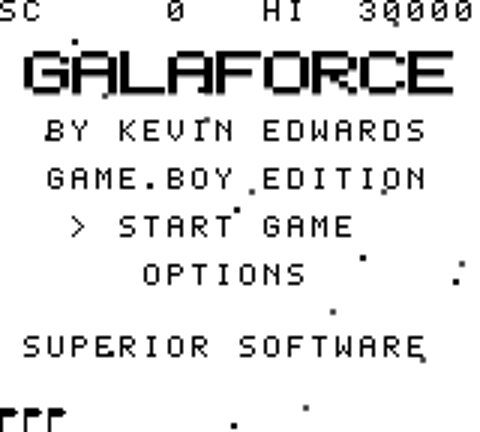
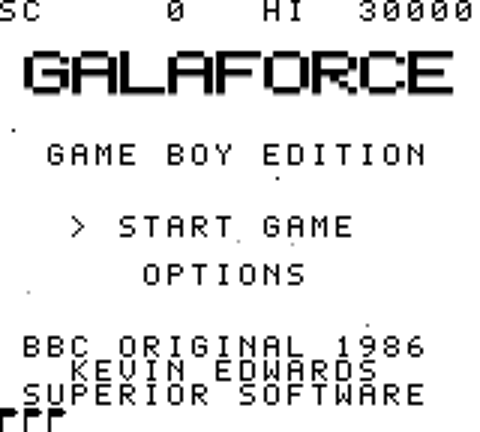
Title: in-game scrolling stars via LYC splits, GAME BOY EDITION headline, small original-credits

diff --git a/docs/PROGRESS.md b/docs/PROGRESS.md
@@ -24,7 +24,7 @@
 - Fixed: alien vertical speed was half of the original; collision now uses the drawn Y (no deaths without contact).
 - Stage 12 done: options menu (lives 1-5, black/white background), persisted in SRAM `$A010`; `tools/optionstest.py` passes. Makefile now rebuilds gfx when `font5x7.py` changes.
 - White background is now the default (a saved setting still overrides it).
-- Title redesigned after the BBC original: HUD line (SC/HI) on top, wide red-style GALAFORCE, BY KEVIN EDWARDS, SUPERIOR SOFTWARE, flags bottom-left, static starfield.
-- Title stars are falling sprites (behind the logo and text via BG priority, two speeds and palettes), like the in-game starfield; the logo also gets an occasional grey shine sweep (every ~8.5 s).
+- Title redesigned after the BBC original: HUD line (SC/HI) on top, wide red-style GALAFORCE, GAME BOY EDITION headline, small credit (BBC ORIGINAL 1986 / KEVIN EDWARDS / SUPERIOR SOFTWARE) for the original author and publisher, flags bottom-left.
+- Title stars use the in-game method: the $9C00 star map scrolled via LYC splits between the text rows (TitleStat, waits for HBlank before switching); the logo also gets an occasional grey shine sweep (every ~8.5 s).
 - Enemy bombs (all waves; extra random bombs from wave 4) redrawn as a fat 6x12 solid drop in the max-contrast palette index, visible in both background modes.
 - Cheat: on the options screen press UP UP DOWN DOWN SELECT to reveal a LEVEL row (1-16, not saved; demo ignores it). Test: tools/cheattest.py.

diff --git a/README.md b/README.md
@@ -17,7 +17,7 @@ A Game Boy (DMG) remake of Kevin Edwards' BBC Micro shoot-'em-up *Galaforce* (19
 D-pad move, A fire, Start pause, A+B+Select+Start soft reset. Title and options: Up/Down select, A or Start choose, Left/Right change a value, B go back.
 
 ## Features
-- Title styled after the BBC original (SC/HI line, wide logo, credits, flags, occasional shine sweep, falling stars). Idles into a self-playing demo after about 13 s; any Start returns.
+- Title styled after the BBC original (SC/HI line, wide logo, "GAME BOY EDITION" headline, small "BBC original 1986 / Kevin Edwards / Superior Software" credit, flags, occasional shine sweep, and the same scrolling starfield as in-game. Idles into a self-playing demo after about 13 s; any Start returns.
 - Options: starting lives 1-5 and a black or white background (white is the default); both are saved in battery RAM.
 - Cheat: on the options screen press Up, Up, Down, Down, Select to unlock a LEVEL row (1-16, not saved).
 - Screen fades, pause dimming, hi-score saved to SRAM.
